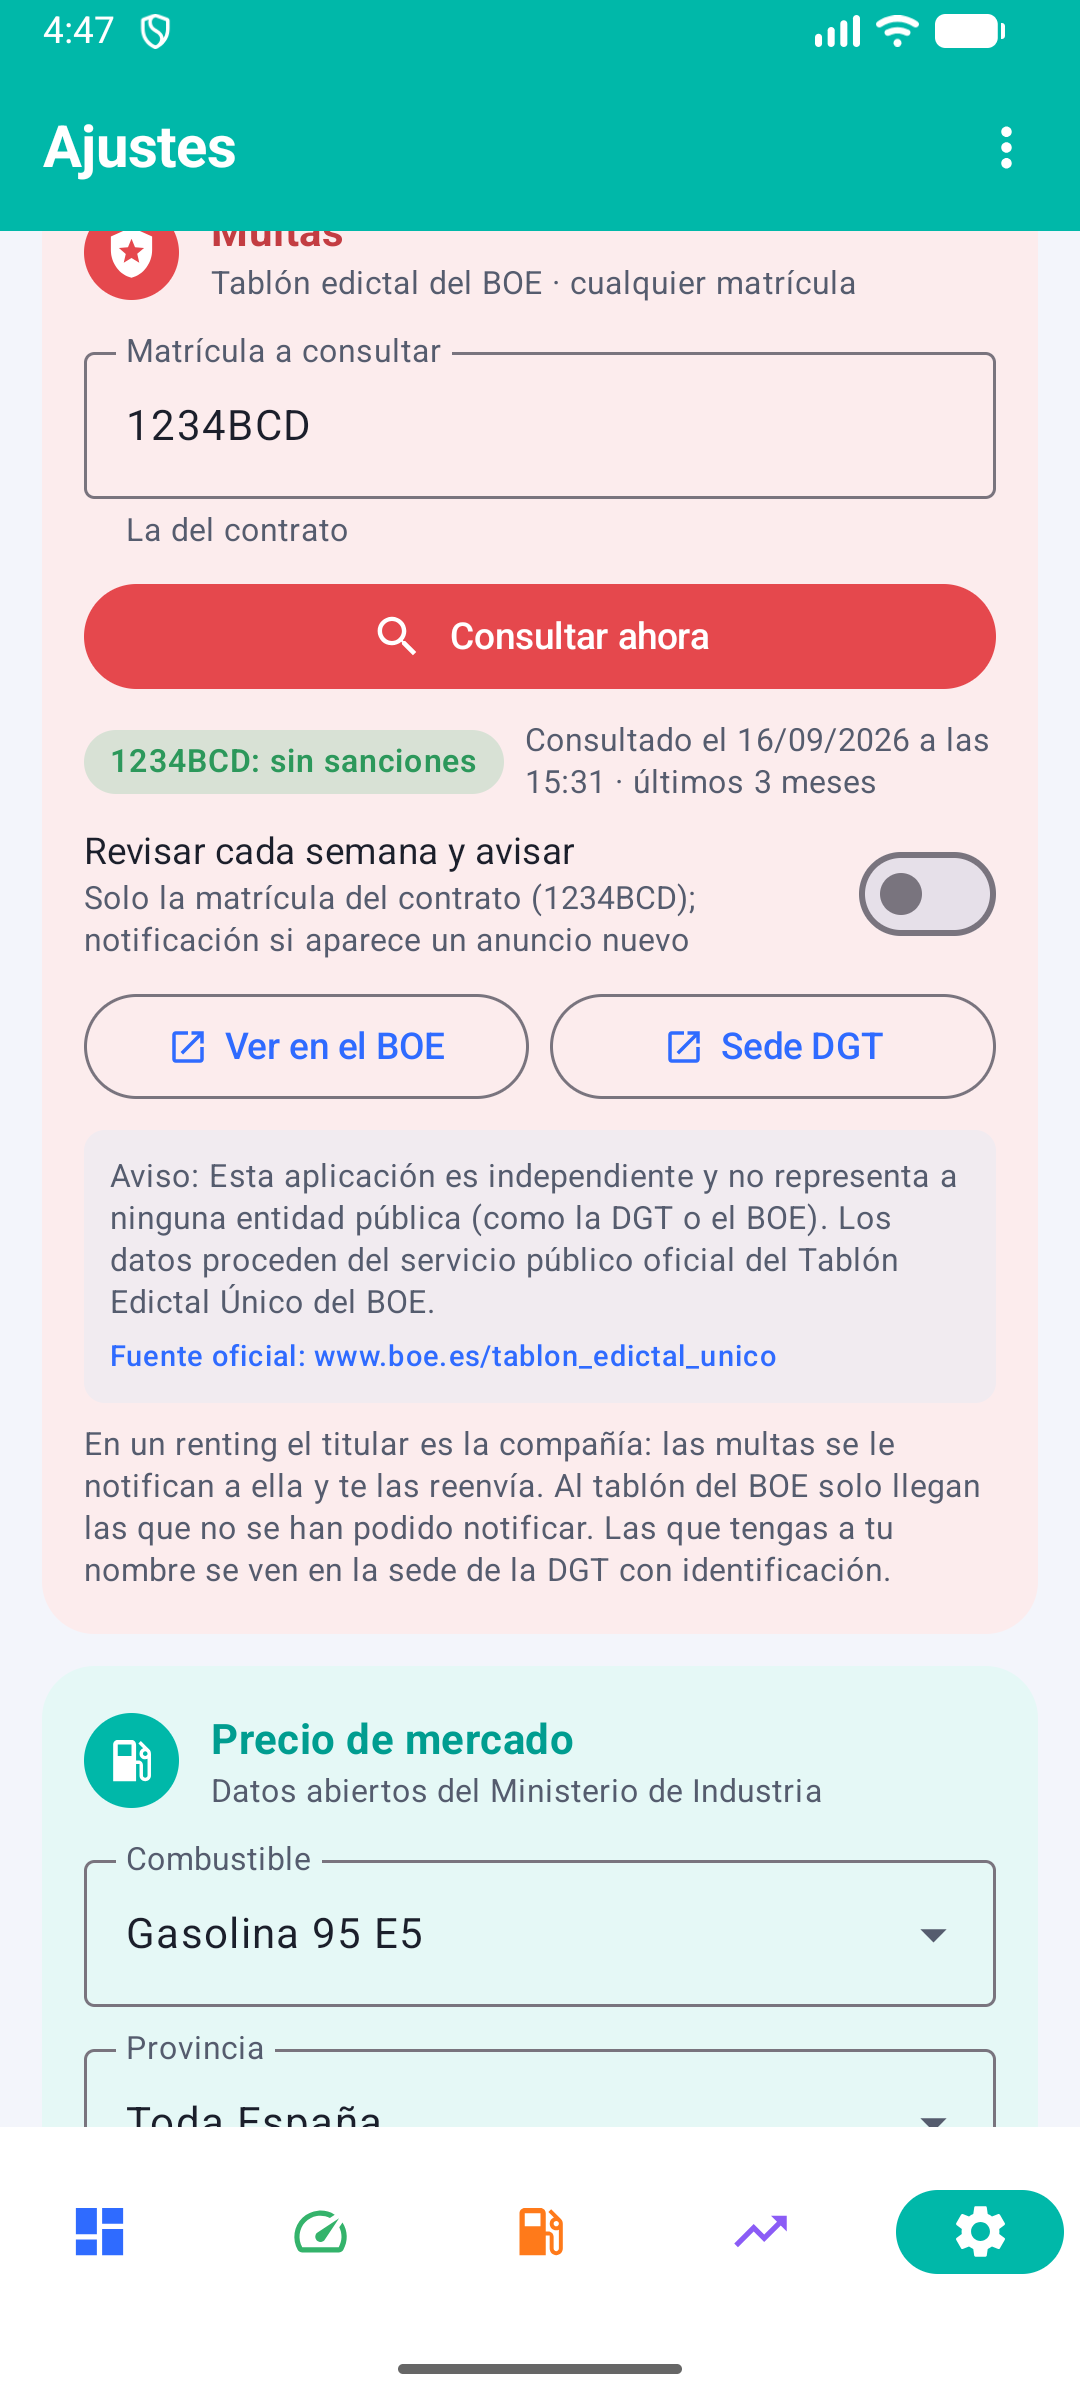
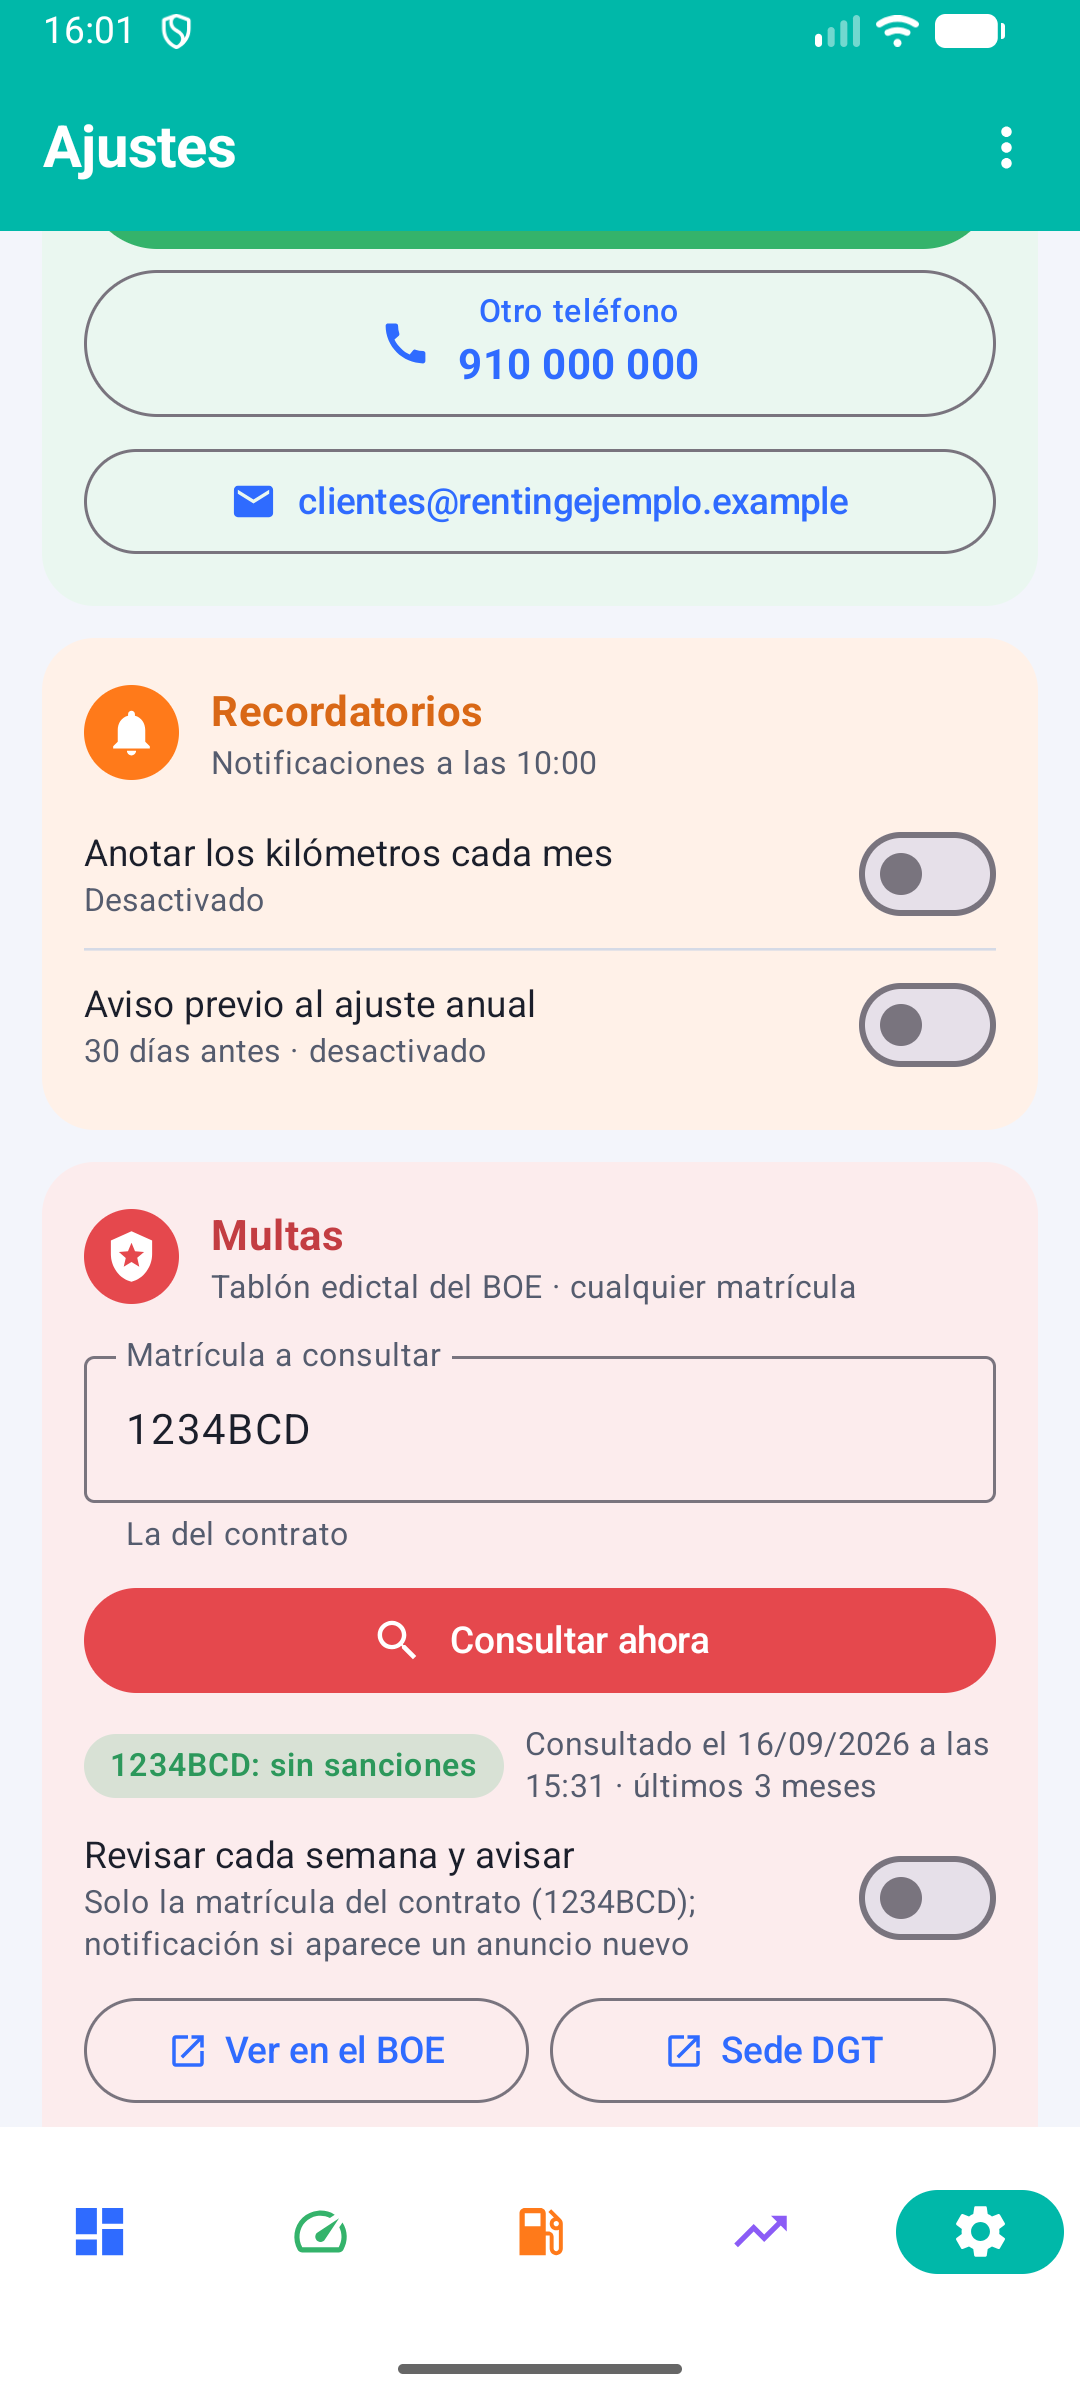
Web: enlace a la política de privacidad; manual y capturas 1.2.2
- docs_web.py incorpora los cambios manuales de docs/index.html (enlaces oficiales nuevos,
  sin tamaños) y repara el bloque de requisitos; la copia local enlaza a la política de
  privacidad publicada en jmrodriguezs.github.io.
- Manual 1.2.2 con las capturas del aviso legal y multas actualizadas.

diff --git a/docs/index.html b/docs/index.html
@@ -135,8 +135,10 @@
     <li>Pulsa <strong>Instalar</strong>. Al abrir la app por primera vez, ve a <strong>Ajustes</strong> y rellena los datos de tu contrato; hasta entonces no se pueden añadir mediciones.</li>
   </ol>
   <div class="nota" style="margin-top:16px">Si Play Protect muestra un aviso, elige <em>Instalar de todos modos</em>. La app no requiere cuenta ni contiene anuncios.</div>
-  <div class="nota" style="margin-top:16px">Seguimiento Renting es una aplicación independiente de uso privado y <strong>no representa a ninguna entidad pública</strong> (como el BOE o la DGT). Solo usa Internet para consultar datos públicos abiertos de combustible (<a href="https://sedeaplicaciones.minetur.gob.es/ServiciosRESTCarburantes/PreciosCarburantes/help" target="_blank" rel="noopener">servicio de datos abiertos MITECO</a>) y notificaciones públicas en el <a href="https://www.boe.es/notificaciones/" target="_blank" rel="noopener">Tablón Edictal Único del BOE</a>.</div>  <div class="req">
-    <span>Android 8.0+</span><span>Versión 1.2.2</span><span>Sin anuncios</span><span>Datos solo en tu dispositivo</span>  </div>
+  <div class="nota" style="margin-top:12px">Seguimiento Renting es una aplicación independiente de uso privado y <strong>no representa a ninguna entidad pública</strong> (como el BOE o la DGT). Solo usa Internet para consultar datos públicos abiertos de combustible (<a href="https://sedeaplicaciones.minetur.gob.es/ServiciosRESTCarburantes/PreciosCarburantes/help" target="_blank" rel="noopener">servicio oficial de precios de carburantes</a>) y notificaciones públicas en el <a href="https://www.boe.es/notificaciones/" target="_blank" rel="noopener">Tablón Edictal Único del BOE</a>.</div>
+  <div class="req">
+    <span>Android 8.0+</span><span>Versión 1.2.2</span><span>Sin anuncios</span><span>Datos solo en tu dispositivo</span>
+  </div>
 </section>
 
 <section id="descargas">
@@ -145,7 +147,7 @@
   <div class="dl">
     <div class="card">
       <h3><i style="background:var(--amarillo);color:#1F2937">📱</i>Aplicación Android</h3>
-      <p>Fichero de instalación <code>SeguimientoRenting.apk</code> · versión 1.2.1 · 22 MB</p>
+      <p>Fichero de instalación <code>SeguimientoRenting.apk</code> · versión 1.2.2 · 22 MB</p>
       <a class="btn apk" href="https://github.com/manursan2026/seguimiento-renting/releases/latest/download/SeguimientoRenting.apk" download>Descargar APK</a>
     </div>
     <div class="card">
@@ -160,7 +162,7 @@
 </main>
 
 <footer>
-  <div class="wrap">Seguimiento Renting · versión 1.2.1 · Página actualizada el 17/09/2026.<br>Las capturas mostradas utilizan datos ficticios de ejemplo.<br>Esta aplicación no representa a ninguna entidad pública. Fuentes oficiales: <a href="https://www.boe.es/tablon_edictal_unico/" target="_blank" rel="noopener">BOE (TEU)</a> · <a href="https://sede.dgt.gob.es/" target="_blank" rel="noopener">Sede DGT</a> · <a href="https://geoportalgasolineras.es/" target="_blank" rel="noopener">Geoportal de Gasolineras</a><br>Código fuente en <a href="https://github.com/manursan2026/seguimiento-renting">GitHub</a> · <a href="https://github.com/manursan2026/seguimiento-renting/releases">Todas las versiones</a> · <a href="politica-de-privacidad.html">Política de Privacidad</a></div>
+  <div class="wrap">Seguimiento Renting · versión 1.2.2 · Página actualizada el 18/09/2026.<br>Las capturas mostradas utilizan datos ficticios de ejemplo.<br>Esta aplicación no representa a ninguna entidad pública. Fuentes oficiales: <a href="https://www.boe.es/notificaciones/" target="_blank" rel="noopener">BOE (TEU)</a> · <a href="https://sede.dgt.gob.es/es/multas/" target="_blank" rel="noopener">Sede DGT</a> · <a href="https://sedeaplicaciones.minetur.gob.es/ServiciosRESTCarburantes/PreciosCarburantes/help" target="_blank" rel="noopener">Precios de carburantes (Ministerio)</a><br>Código fuente en <a href="https://github.com/manursan2026/seguimiento-renting">GitHub</a> · <a href="https://github.com/manursan2026/seguimiento-renting/releases">Todas las versiones</a> · <a href="politica-de-privacidad.html">Política de Privacidad</a></div>
 </footer>
 
 </body>

diff --git a/docs_web.py b/docs_web.py
@@ -13,7 +13,7 @@ pdf = os.path.getsize("/Users/manursan/Documents/PERSONALES/RENTING_PEUGEOT/Manu
 fecha = datetime.date.today().strftime("%d/%m/%Y")
 
 # Enlaces del pie solo en la versión de GitHub Pages; la copia local no los lleva
-enlaces = "" if LOCAL else '<br>Código fuente en <a href="https://github.com/manursan2026/seguimiento-renting">GitHub</a> · <a href="https://github.com/manursan2026/seguimiento-renting/releases">Todas las versiones</a> · <a href="politica-de-privacidad.html">Política de Privacidad</a>'
+enlaces = '<br><a href="https://jmrodriguezs.github.io/SeguimientoRenting/politica-de-privacidad.html" target="_blank" rel="noopener">Política de privacidad</a>' if LOCAL else '<br>Código fuente en <a href="https://github.com/manursan2026/seguimiento-renting">GitHub</a> · <a href="https://github.com/manursan2026/seguimiento-renting/releases">Todas las versiones</a> · <a href="politica-de-privacidad.html">Política de Privacidad</a>'
 
 html = f"""<!DOCTYPE html>
 <html lang="es">
@@ -152,9 +152,9 @@ html = f"""<!DOCTYPE html>
     <li>Pulsa <strong>Instalar</strong>. Al abrir la app por primera vez, ve a <strong>Ajustes</strong> y rellena los datos de tu contrato; hasta entonces no se pueden añadir mediciones.</li>
   </ol>
   <div class="nota" style="margin-top:16px">Si Play Protect muestra un aviso, elige <em>Instalar de todos modos</em>. La app no requiere cuenta ni contiene anuncios.</div>
-  <div class="nota" style="margin-top:12px">Seguimiento Renting es una aplicación independiente de uso privado y <strong>no representa a ninguna entidad pública</strong> (como el BOE o la DGT). Solo usa Internet para consultar datos públicos abiertos de combustible (<a href="https://geoportalgasolineras.es/" target="_blank" rel="noopener">geoportalgasolineras.es</a>) y notificaciones públicas en el <a href="https://www.boe.es/tablon_edictal_unico/" target="_blank" rel="noopener">Tablón Edictal Único del BOE</a>.</div>
+  <div class="nota" style="margin-top:12px">Seguimiento Renting es una aplicación independiente de uso privado y <strong>no representa a ninguna entidad pública</strong> (como el BOE o la DGT). Solo usa Internet para consultar datos públicos abiertos de combustible (<a href="https://sedeaplicaciones.minetur.gob.es/ServiciosRESTCarburantes/PreciosCarburantes/help" target="_blank" rel="noopener">servicio oficial de precios de carburantes</a>) y notificaciones públicas en el <a href="https://www.boe.es/notificaciones/" target="_blank" rel="noopener">Tablón Edictal Único del BOE</a>.</div>
   <div class="req">
-    <span>Android 8.0+</span><span>Versión {VERSION}</span><span>{apk:.0f} MB</span><span>Sin anuncios</span><span>Datos solo en tu dispositivo</span>
+    <span>Android 8.0+</span><span>Versión {VERSION}</span><span>Sin anuncios</span><span>Datos solo en tu dispositivo</span>
   </div>
 </section>
 
@@ -179,7 +179,7 @@ html = f"""<!DOCTYPE html>
 </main>
 
 <footer>
-  <div class="wrap">Seguimiento Renting · versión {VERSION} · Página actualizada el {fecha}.<br>Las capturas mostradas utilizan datos ficticios de ejemplo.<br>Esta aplicación no representa a ninguna entidad pública. Fuentes oficiales: <a href="https://www.boe.es/tablon_edictal_unico/" target="_blank" rel="noopener">BOE (TEU)</a> · <a href="https://sede.dgt.gob.es/" target="_blank" rel="noopener">Sede DGT</a> · <a href="https://geoportalgasolineras.es/" target="_blank" rel="noopener">Geoportal de Gasolineras</a>{enlaces}</div>
+  <div class="wrap">Seguimiento Renting · versión {VERSION} · Página actualizada el {fecha}.<br>Las capturas mostradas utilizan datos ficticios de ejemplo.<br>Esta aplicación no representa a ninguna entidad pública. Fuentes oficiales: <a href="https://www.boe.es/notificaciones/" target="_blank" rel="noopener">BOE (TEU)</a> · <a href="https://sede.dgt.gob.es/es/multas/" target="_blank" rel="noopener">Sede DGT</a> · <a href="https://sedeaplicaciones.minetur.gob.es/ServiciosRESTCarburantes/PreciosCarburantes/help" target="_blank" rel="noopener">Precios de carburantes (Ministerio)</a>{enlaces}</div>
 </footer>
 
 </body>

diff --git a/docs_manual.py b/docs_manual.py
@@ -118,7 +118,7 @@ class Doc(BaseDocTemplate):
         canv.line(doc.leftMargin, A4[1] - 1.5*cm, A4[0] - doc.rightMargin, A4[1] - 1.5*cm)
         canv.setFont("Arial", 8); canv.setFillColor(GRIS)
         canv.drawString(doc.leftMargin, A4[1] - 1.35*cm, "Seguimiento Renting · Manual de usuario")
-        canv.drawRightString(A4[0] - doc.rightMargin, A4[1] - 1.35*cm, "Versión 1.2.1 · %s" % datetime.date.today().strftime("%d/%m/%Y"))
+        canv.drawRightString(A4[0] - doc.rightMargin, A4[1] - 1.35*cm, "Versión 1.2.2 · %s" % datetime.date.today().strftime("%d/%m/%Y"))
         canv.drawCentredString(A4[0] / 2, 1.2*cm, str(doc.page))
         canv.restoreState()
     def afterFlowable(self, fl):
@@ -142,7 +142,7 @@ story += [Spacer(1, 2.2*cm), P("Seguimiento Renting", "title"), Spacer(1, 0.3*cm
 cover_tbl = Table([[shot("01_resumen_1", 4.4*cm), shot("30_proy_1", 4.4*cm), shot("20_rep_lista", 4.4*cm)]], colWidths=[5.2*cm]*3, hAlign="CENTER")
 cover_tbl.setStyle(TableStyle([("ALIGN", (0, 0), (-1, -1), "CENTER")]))
 story += [cover_tbl, Spacer(1, 0.8*cm),
-          Paragraph("Versión 1.2.1 · %s · Todas las capturas de este manual usan datos ficticios de ejemplo." % datetime.date.today().strftime("%B %Y").capitalize(), st["cap"])]
+          Paragraph("Versión 1.2.2 · %s · Todas las capturas de este manual usan datos ficticios de ejemplo." % datetime.date.today().strftime("%B %Y").capitalize(), st["cap"])]
 
 # ---------- Índice ----------
 toc = TableOfContents(); toc.levelStyles = [st["toc1"], st["toc2"]]; toc.dotsMinLevel = 0
